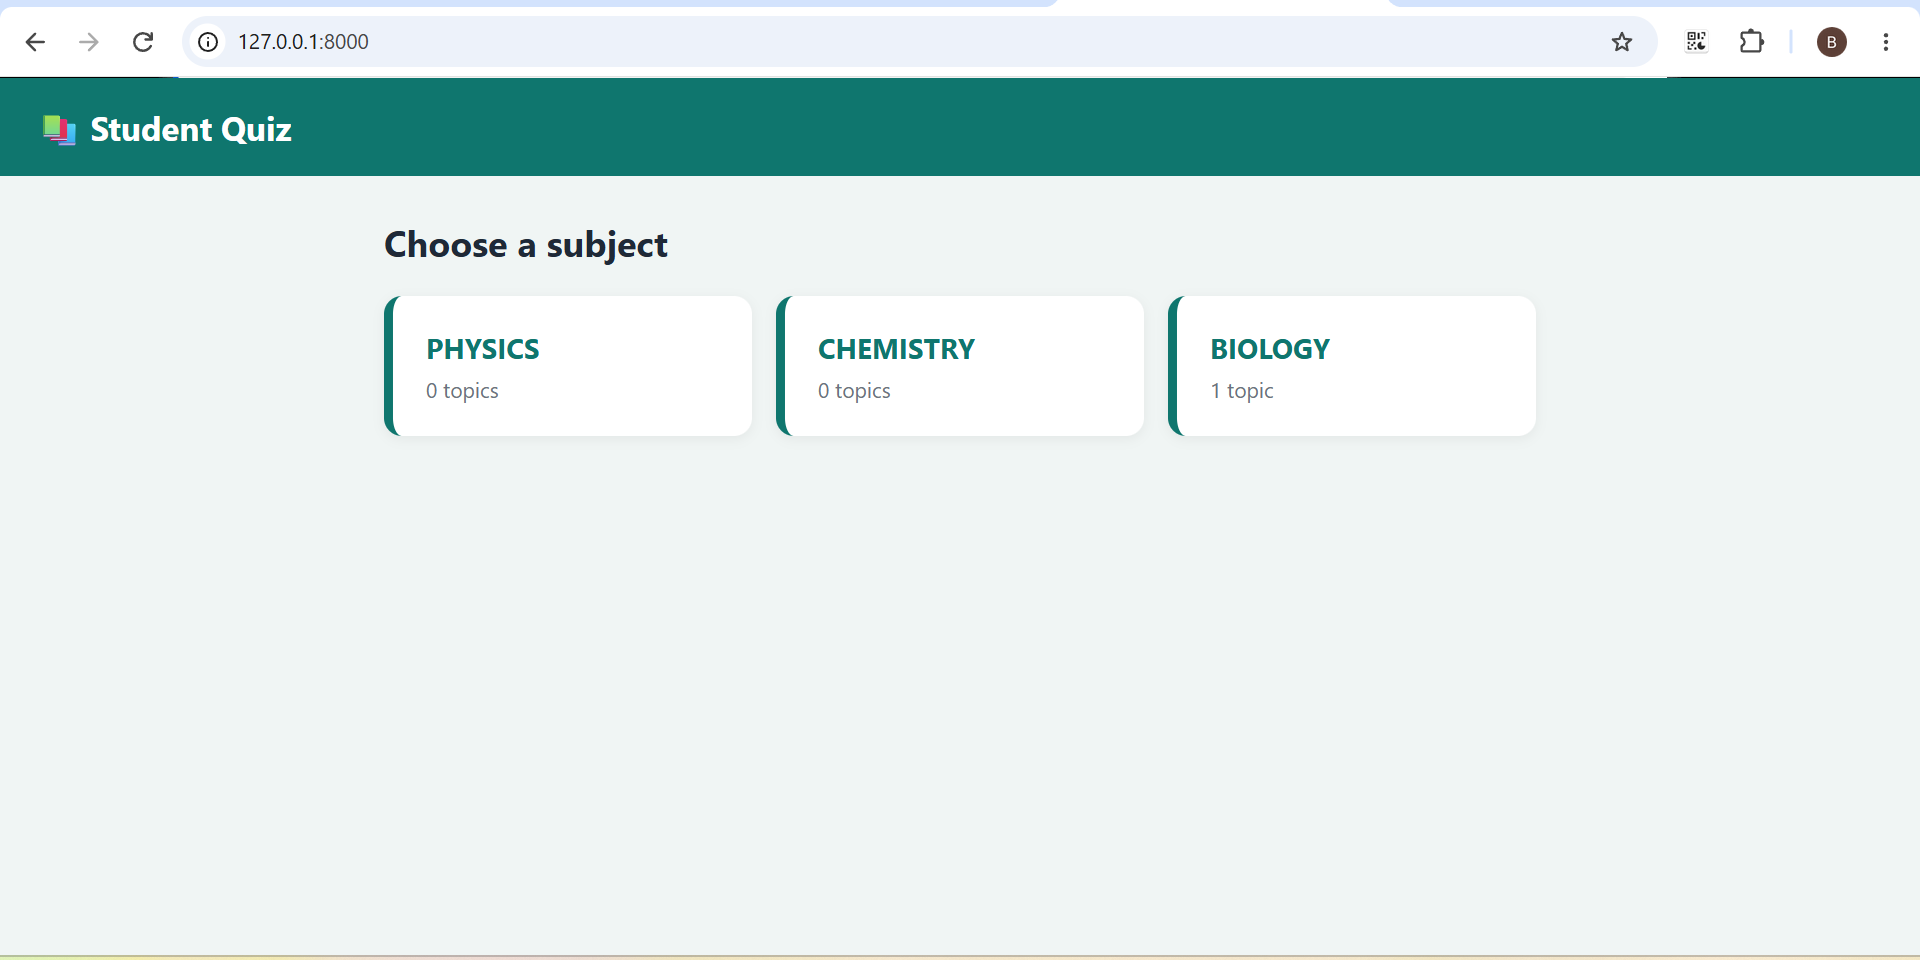
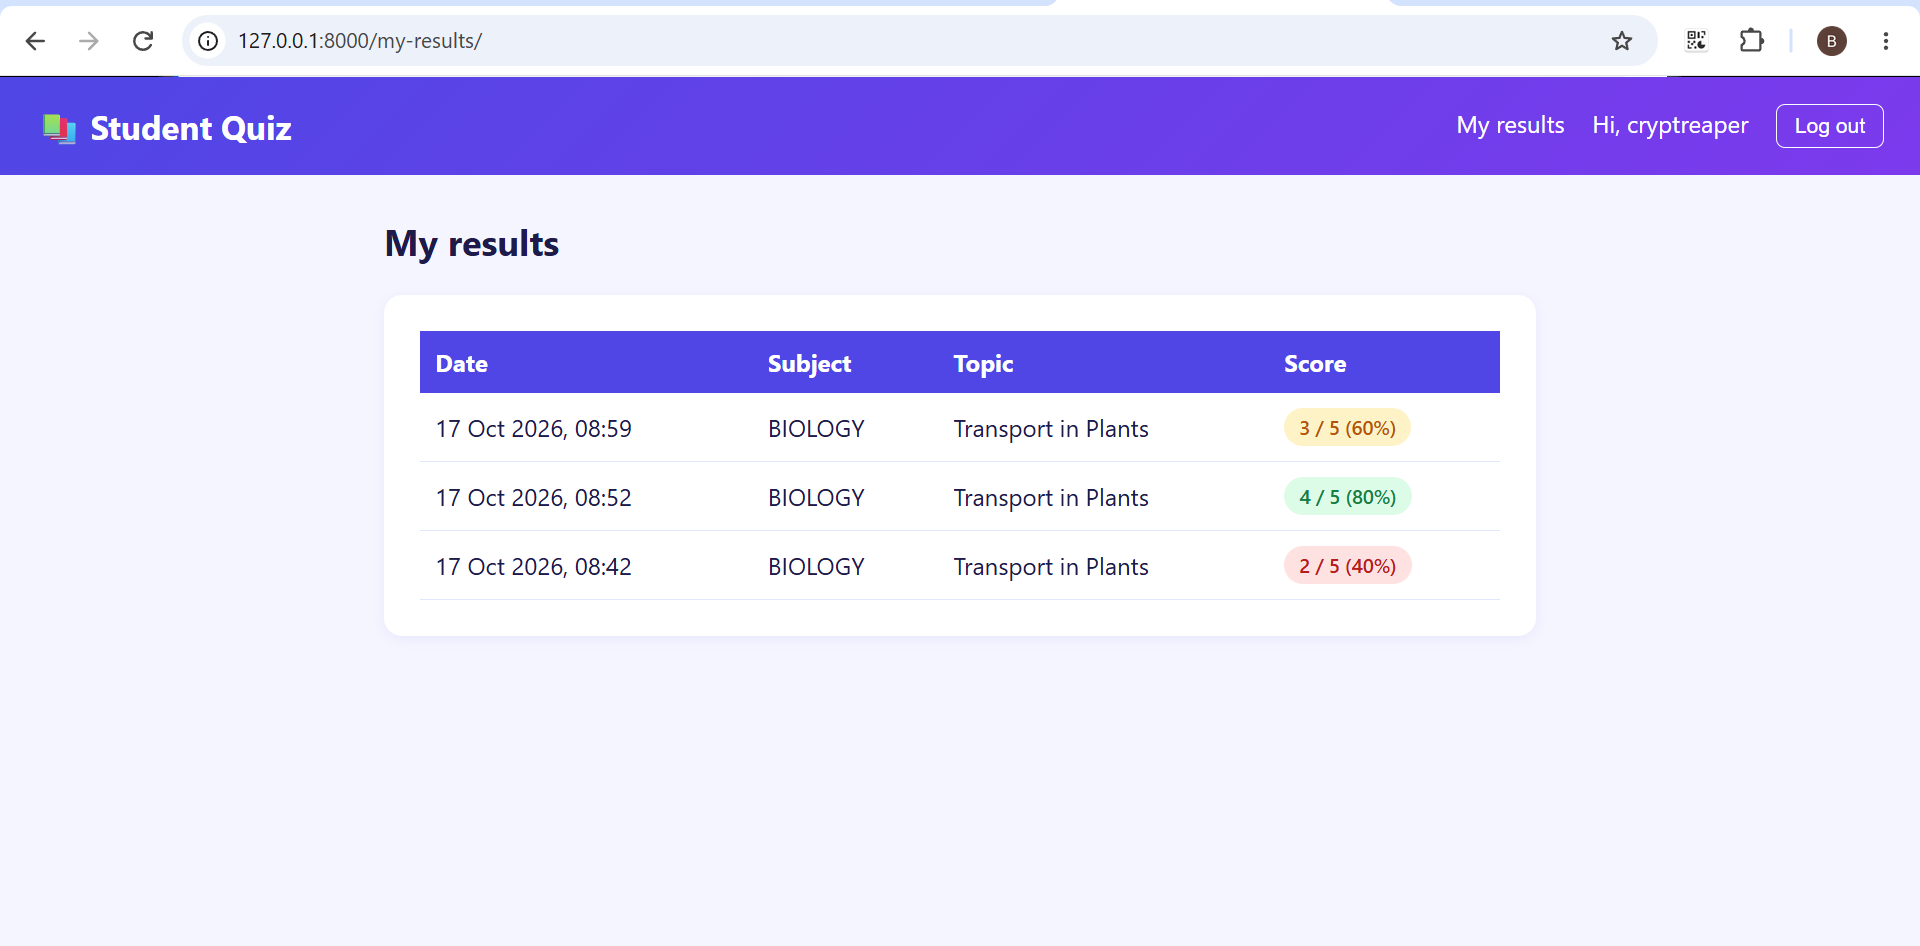
Update README and screenshots

diff --git a/README.md b/README.md
@@ -1,17 +1,22 @@
 # Student Quiz
 
-A Django web app where students practice science subjects with multiple-choice quizzes. Pick a subject, pick a topic, answer the questions, and get a score with a review of every answer.
+A Django web app where students practice science subjects with multiple-choice quizzes. Students create an account, pick a subject and topic, answer the questions, and get an instant score with a full review. Every result is saved, so students can track their progress over time.
 
 ![Subjects page](screenshot-subjects.png)
 ![Results page](screenshot-results.png)
+![My results page](screenshot-my-results.png)
 
 ## Features
 
+- Student accounts: sign up, log in, and log out
+- Welcome popup that appears after logging in or signing up
 - Subjects (Physics, Chemistry, Biology), each with its own topics
 - Multiple-choice questions with one correct answer
+- Quizzes and results are only available to logged-in students
 - Instant score and percentage after submitting
 - Review page showing your answer, the correct answer, and an explanation
-- Admin panel to add subjects, topics, questions, and choices (all four options on one page)
+- Score history on a "My results" page, with colored badges for good, average, and low scores
+- Admin panel to add subjects, topics, questions (all four choices on one page), and to view every student's attempts
 
 ## Built with
 
@@ -54,13 +59,14 @@ A Django web app where students practice science subjects with multiple-choice q
    python manage.py runserver
 ```
 
-6. Open http://127.0.0.1:8000/admin, add subjects, topics, and questions, then visit http://127.0.0.1:8000 to take a quiz
+6. Open http://127.0.0.1:8000/admin, log in, and add subjects, topics, and questions. Then visit http://127.0.0.1:8000, create a student account, and take a quiz.
 
 ## Future improvements
 
-- Student accounts with saved score history
 - Random question order
 - Timed quizzes
+- Leaderboard for top scores
+- Live deployment
 
 ## Author
 
